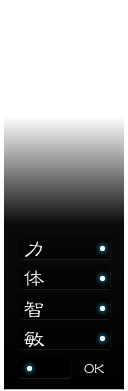
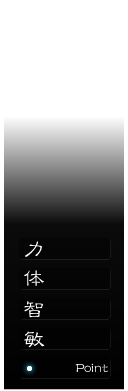
大功告成

Changed region(s): [[0.75, 0.7673, 0.8438, 0.89], [0.75, 0.6138, 0.8438, 0.7366], [0.5938, 0.9207, 0.8438, 0.9514]]

diff --git a/Game/Data/Scripts/source/Scene_Map.rb b/Game/Data/Scripts/source/Scene_Map.rb
@@ -408,7 +408,7 @@ class Scene_Map < Scene_Base
     if @menu_rem[0] != @now_set[0][0]
       @menu_rem[0] = @now_set[0][0].clone
       @menu_sprite_act.bitmap.dispose if @menu_sprite_act.bitmap
-      @menu_sprite_act.bitmap = get_ele_value_bitmap
+      @menu_sprite_act.bitmap = Fuc.get_ele_value_bitmap(@menu_sprite_sin.bitmap.width,@menu_sprite_sin.bitmap.height)
     end
     tpos = [Mouse.pos[0]-@menu_sprite_act.x,Mouse.pos[1]-@menu_sprite_act.y]
     body_index = tpos[0]/160
@@ -416,7 +416,7 @@ class Scene_Map < Scene_Base
     @now_set[0][1] = [tpos.einrect?(MENU_ELE_POS[0],body_index),tpos.einrect?(MENU_ELE_POS[1],body_index),tpos.einrect?(MENU_ELE_POS[2],body_index),tpos.einrect?(MENU_ELE_POS[3],body_index)]
     if @menu_rem[1]!=[@now_set[0][1],body_index]
       @menu_sprite_bak.bitmap.clear
-      can_show = false
+      @ele_index = nil
       4.times do |i|
         if @now_set[0][1][i]
           @menu_sprite_bak.bitmap.clear
@@ -425,12 +425,49 @@ class Scene_Map < Scene_Base
           h = tb.height
           @menu_sprite_bak.bitmap.blt(MENU_ELE_POS[i][0]+body_index*160,MENU_ELE_POS[i][1],tb,Rect.new(0,0,w,h))
           create_ele_tips(@menu_sprite_act.x+MENU_ELE_POS[i][0]+body_index*160,MENU_ELE_POS[i][1],i)
-          can_show = true
+          @ele_index = i
           break
         end
       end
-      @ele_tips_text.bitmap.dispose if @ele_tips_text && @ele_tips_text.bitmap unless can_show
+      @ele_tips_text.bitmap.dispose if @ele_tips_text && @ele_tips_text.bitmap unless @ele_index
       @menu_rem[1]=[@now_set[0][1].clone,body_index]
+    end
+    #p @ele_index
+    if Mouse.click?(1) && $party.members[body_index].ep>0
+      if body_index>=0 && @ele_index
+        case @ele_index
+        when 0
+          $party.members[body_index].str[1]+=1
+          $party.members[body_index].atk+=10
+          $party.members[body_index].def+=5
+          $party.members[body_index].bingo_damage = 100 if $party.members[body_index].bingo_damage<100
+          $party.members[body_index].bingo_damage+=20
+          $party.members[body_index].maxhp+=15
+          $party.members[body_index].hp+=15
+        when 1
+          $party.members[body_index].het[1]+=1
+          $party.members[body_index].maxhp+=60
+          $party.members[body_index].hp+=60
+          $party.members[body_index].def+=1
+          $party.members[body_index].ap+=2
+          $party.members[body_index].hp_rec+=1
+        when 2
+          $party.members[body_index].tec[1]+=1
+          $party.members[body_index].int+=10
+          $party.members[body_index].mdef+=5
+          $party.members[body_index].sp_rec+=1
+          $party.members[body_index].ap+=1
+          $party.members[body_index].hatred_base-=1
+        when 3
+          $party.members[body_index].agi[1]+=1
+          $party.members[body_index].atk+=2
+          $party.members[body_index].def+=5
+          $party.members[body_index].miss_rate+=2
+          $party.members[body_index].bingo_rate+=2
+          $party.members[body_index].ap+=1
+        end
+        $party.members[body_index].ep-=1
+      end
     end
   end
   

diff --git a/Game/Data/Scripts/source/Spriteset_Map.rb b/Game/Data/Scripts/source/Spriteset_Map.rb
@@ -60,6 +60,16 @@ class Spriteset_Map
     @parallax = Plane.new(@viewport1)
     @parallax.z = -100
   end
+  
+  def hide_ui
+    $ui_show = false
+    @tips.each{|i| i.visible=false}
+  end
+  
+  def show_ui
+    $ui_show = true
+    @tips.each{|i| i.visible=true}
+  end
   #--------------------------------------------------------------------------
   # ● 生成战旗UI
   #--------------------------------------------------------------------------
@@ -80,9 +90,10 @@ class Spriteset_Map
     @fillup[3].z = 4
     @fillup[4].z = 3
     # UI
-    @tipsvar = [[0,0],[true,10],[false,0],nil,nil,nil,0,nil,nil,[],[false,-1],[],[],[],[],[false,-1],[],[false,0],[false,-1],false,-1]
+    @tipsvar = [[0,0],[true,10],[false,0],nil,nil,nil,0,nil,nil,[],[false,-1],[],[],[],[],[false,-1],[],[false,0],[false,-1],false,-1,0]
     @tips = 
     [ Sprite.new(@viewport2),
+      Sprite.new(@viewport3),
       Sprite.new(@viewport3),
       Sprite.new(@viewport3),
       Sprite.new(@viewport3),
@@ -153,9 +164,11 @@ class Spriteset_Map
     @tips[16].y = @tips[15].y
     @tips[16].x = @tips[15].x
     @tips[16].z = 101
+    @tips[17].bitmap = Bitmap.new(300,49)
     # 数据显示
     @richtext = []
     @richvalue = {}
+    $ui_show ? show_ui : hide_ui
   end
   #--------------------------------------------------------------------------
   # ● 自动适应屏幕
@@ -184,6 +197,8 @@ class Spriteset_Map
     @tips[15].x = Graphics.width-5-@tips[15].bitmap.width
     @tips[16].y = @tips[15].y
     @tips[16].x = @tips[15].x
+    @tips[17].x=Graphics.width/2-150
+    @tips[17].y=Graphics.height/2-24
   end
   #--------------------------------------------------------------------------
   # ● 增加数据显示
@@ -209,6 +224,17 @@ class Spriteset_Map
     @tips[7].bitmap.draw_text(0,0,@tips[7].bitmap.width,@tips[7].bitmap.height,text,1)
     @tips[6].opacity = @tips[7].opacity = 255
     @tipsvar[6] = 60
+  end
+  
+  def show_turn_info(tar = true)
+    @tips[17].bitmap.clear
+    tbitmap = tar ? Bitmap.new(Fuc::O_TURN) : Bitmap.new(Fuc::E_TURN)
+    @tips[17].bitmap.blt(0,0,tbitmap,Rect.new(0,0,300,49))
+    tbitmap.dispose
+    @tips[17].x=Graphics.width/2-150
+    @tips[17].y=Graphics.height/2-24
+    @tips[17].opacity = 255
+    @tipsvar[21] = 60
   end
   #--------------------------------------------------------------------------
   # ● 生成人物精灵
@@ -580,6 +606,13 @@ class Spriteset_Map
           @tipsvar[20]=$sel_body.sp
           @tips[16].bitmap.dispose if @tips[16].bitmap
           @tips[16].bitmap = Fuc.get_all_skill_bitmap
+        end
+      when 17
+        if @tipsvar[21] <= 0
+          @tipsvar[21] = 0
+          @tips[17].opacity >= 5 ? @tips[17].opacity-=5 : @tips[17].opacity = 0
+        else
+          @tipsvar[21] -= 1
         end
       end
     end

diff --git a/Game/Data/Scripts/source/Map_Battle.rb b/Game/Data/Scripts/source/Map_Battle.rb
@@ -27,7 +27,7 @@
   def var_init              #变量初始化
     @action_list = []       #行动列表  
     @cur_actor = nil        #当前角色
-    @order_rem = []         #指令记录，用于回放战斗
+    #@order_rem = []         #指令记录，用于回放战斗
     @movearea = nil         #地板砖
     @wayarea = nil          #到达目的地的路径
     @enablearea = nil       #允许攻击的范围
@@ -77,6 +77,7 @@
       @wayarea.dispose if @wayarea
       create_maparea
       set_view_pos(@cur_actor.x,@cur_actor.y)
+      @splink.show_turn_info(@cur_actor.ai.nil?)
     else
       @cur_actor.ap = 0
       next_actor
@@ -733,12 +734,12 @@
     revar = ctrl(id,para)
     if revar.is_a?(Array)
       @last_action_state = revar
-      @order_rem << [id,para]
+      #@order_rem << [id,para]
       per_steps_cal
       return revar
     elsif revar
       @last_action_state = true
-      @order_rem << [id,para]
+      #@order_rem << [id,para]
       per_steps_cal
       return true
     else

diff --git a/Game/Data/Scripts/source/Fuc.rb b/Game/Data/Scripts/source/Fuc.rb
@@ -44,6 +44,8 @@
   MENU_SAV_SL = "Graphics/System/sl.png"
   MENU_MES_SEL = "Graphics/System/mesg_sel.png"
   EMPTY_SKILL = "Graphics/Icon/empty_skill.png"
+  O_TURN = "Graphics/System/onalo_turn.png"
+  E_TURN = "Graphics/System/enemy_turn.png"
   RECT_SEL = Rect.new(0,0,26,26)
   DAMAGE_EFFECT = [Color.new(255,0,0,255),20]
   FAILD_ATTACK_TEXT = 
@@ -73,7 +75,7 @@
   ELE_DESCR = 
   [ ["力量","每点效果:\n攻击+10\n防御+5\n暴击伤害倍数+20%\n生命最大上限+15"],
     ["体力","每点增加:\n生命最大上限+60\n防御+1\n行动力+2\n每次行动HP回复+1"],
-    ["智力","每点增加:\n法力+10\n法抗+5\n每次行动怒气回复+1\n基础仇恨-1"],
+    ["智力","每点增加:\n法力+10\n法抗+5\n每次行动怒气回复+1\n基础仇恨-1\n行动力+1"],
     ["敏捷","每点增加:\n攻击+2\n防御+5\n闪避+2%\n暴击+2%\n行动力+1"]
   ]
   COMMON_BATTLE_REQ = " $game_switches[2] = @partner_num==0;

diff --git a/Game/Data/Scripts/source/Game_Interpreter.rb b/Game/Data/Scripts/source/Game_Interpreter.rb
@@ -644,7 +644,7 @@ class Game_Interpreter
       when 4  # 除法
         $game_variables[variable_id] /= value
       when 5  # 取余
-        $game_variables[variable_id] %= value
+        $game_variables[variable_id] = $game_variables[variable_id]%value
       end
     rescue
       $game_variables[variable_id] = 0
@@ -1419,5 +1419,13 @@ class Game_Interpreter
   def set_team(arr)
     $team_set = arr
   end
+    
+  def hide_ui
+    SceneManager.scene.spriteset.hide_ui
+  end
   
+  def show_ui
+    SceneManager.scene.spriteset.show_ui
+  end
+
 end

diff --git a/Game/Data/Scripts/source/Var_init.rb b/Game/Data/Scripts/source/Var_init.rb
@@ -2,6 +2,7 @@
 $p1_actor = nil
 $p2_actor = nil
 $sel_body = nil
+$ui_show = false
 $menu_skill = [CallEleScene.new,CallGraScene.new,CallVoiScene.new,CallSaveScene.new,CallMesScene.new,CallRetScene.new]
 $random_center = Random.new(65535)
 Font.default_name = "方正隶变简体"
